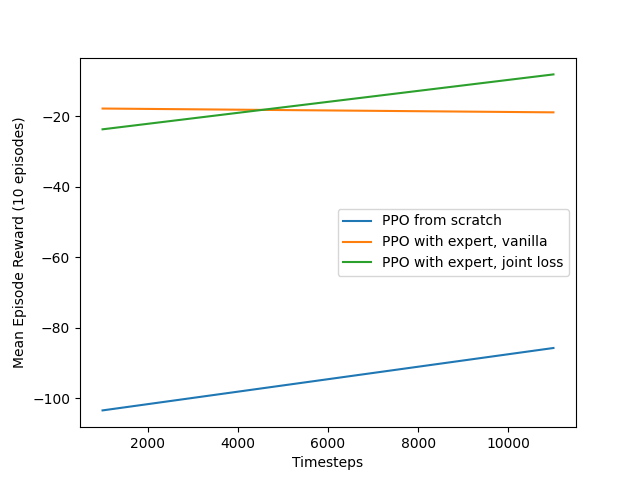
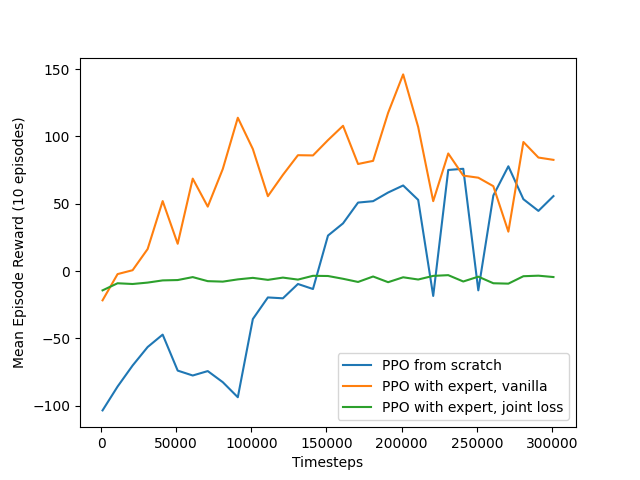
training run

diff --git a/generate_comparison_finetune.py b/generate_comparison_finetune.py
@@ -21,7 +21,7 @@ def generate_comparison_finetune():
     args.env_name = 'PusherEnv-v0'
     args.num_processes = 1
     args.num_steps=1000
-    args.num_env_steps=11000
+    args.num_env_steps=301000
     args.cuda = False
 
     args.algo = "ppo"
